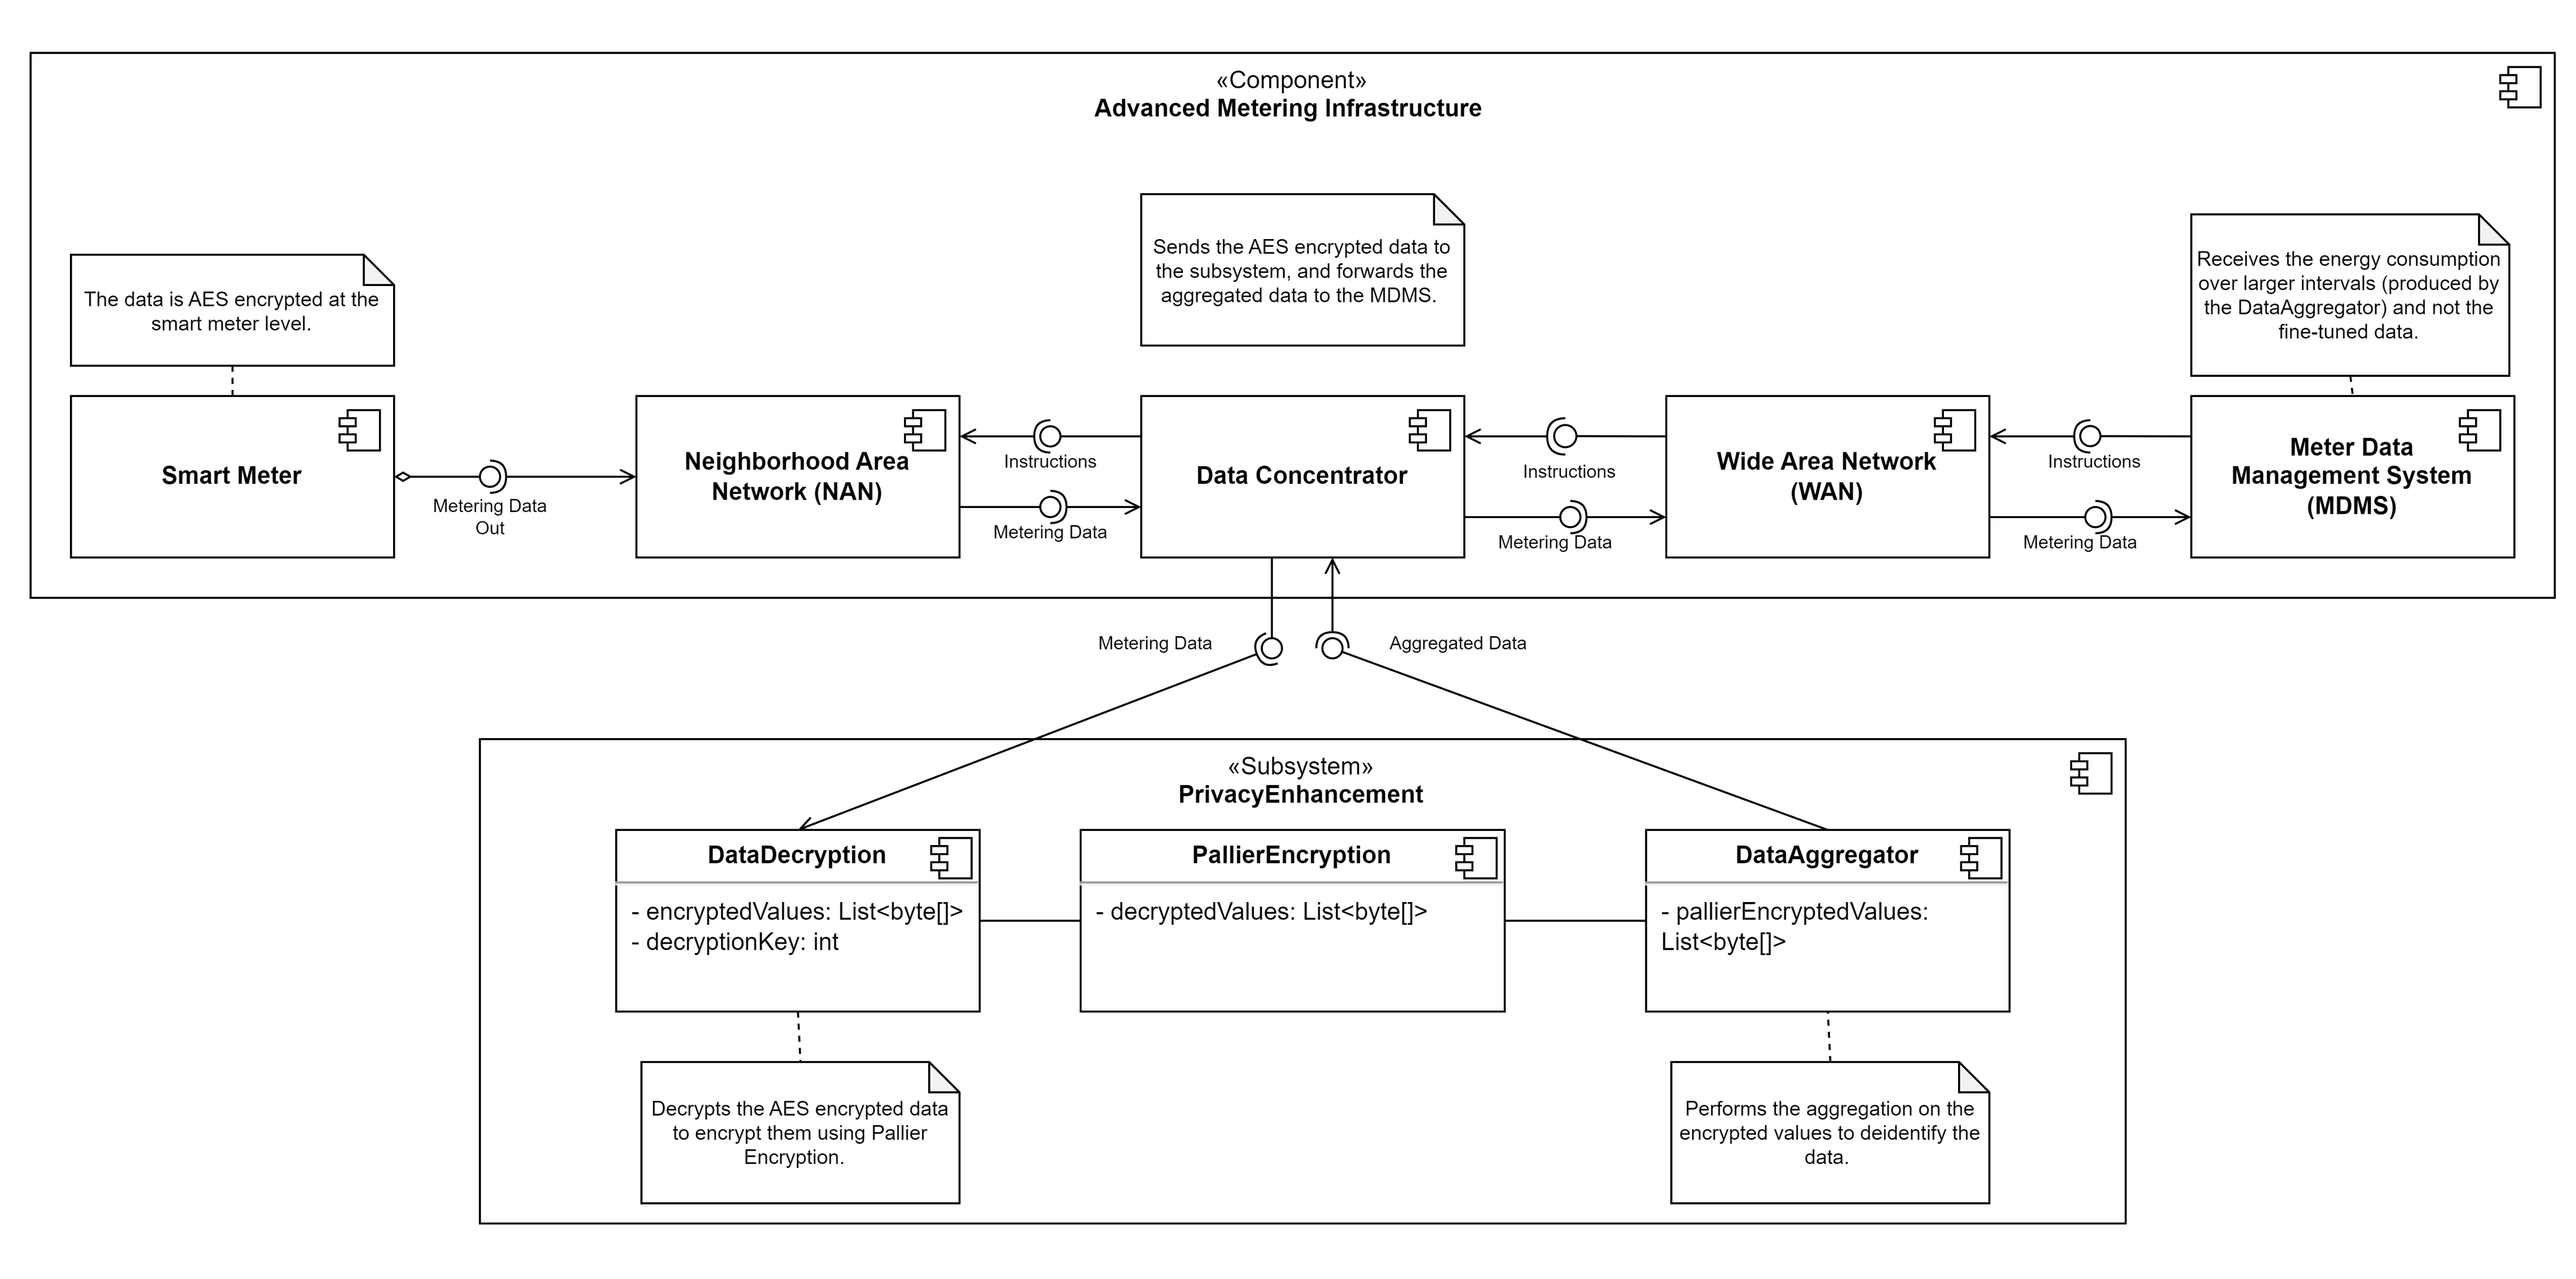
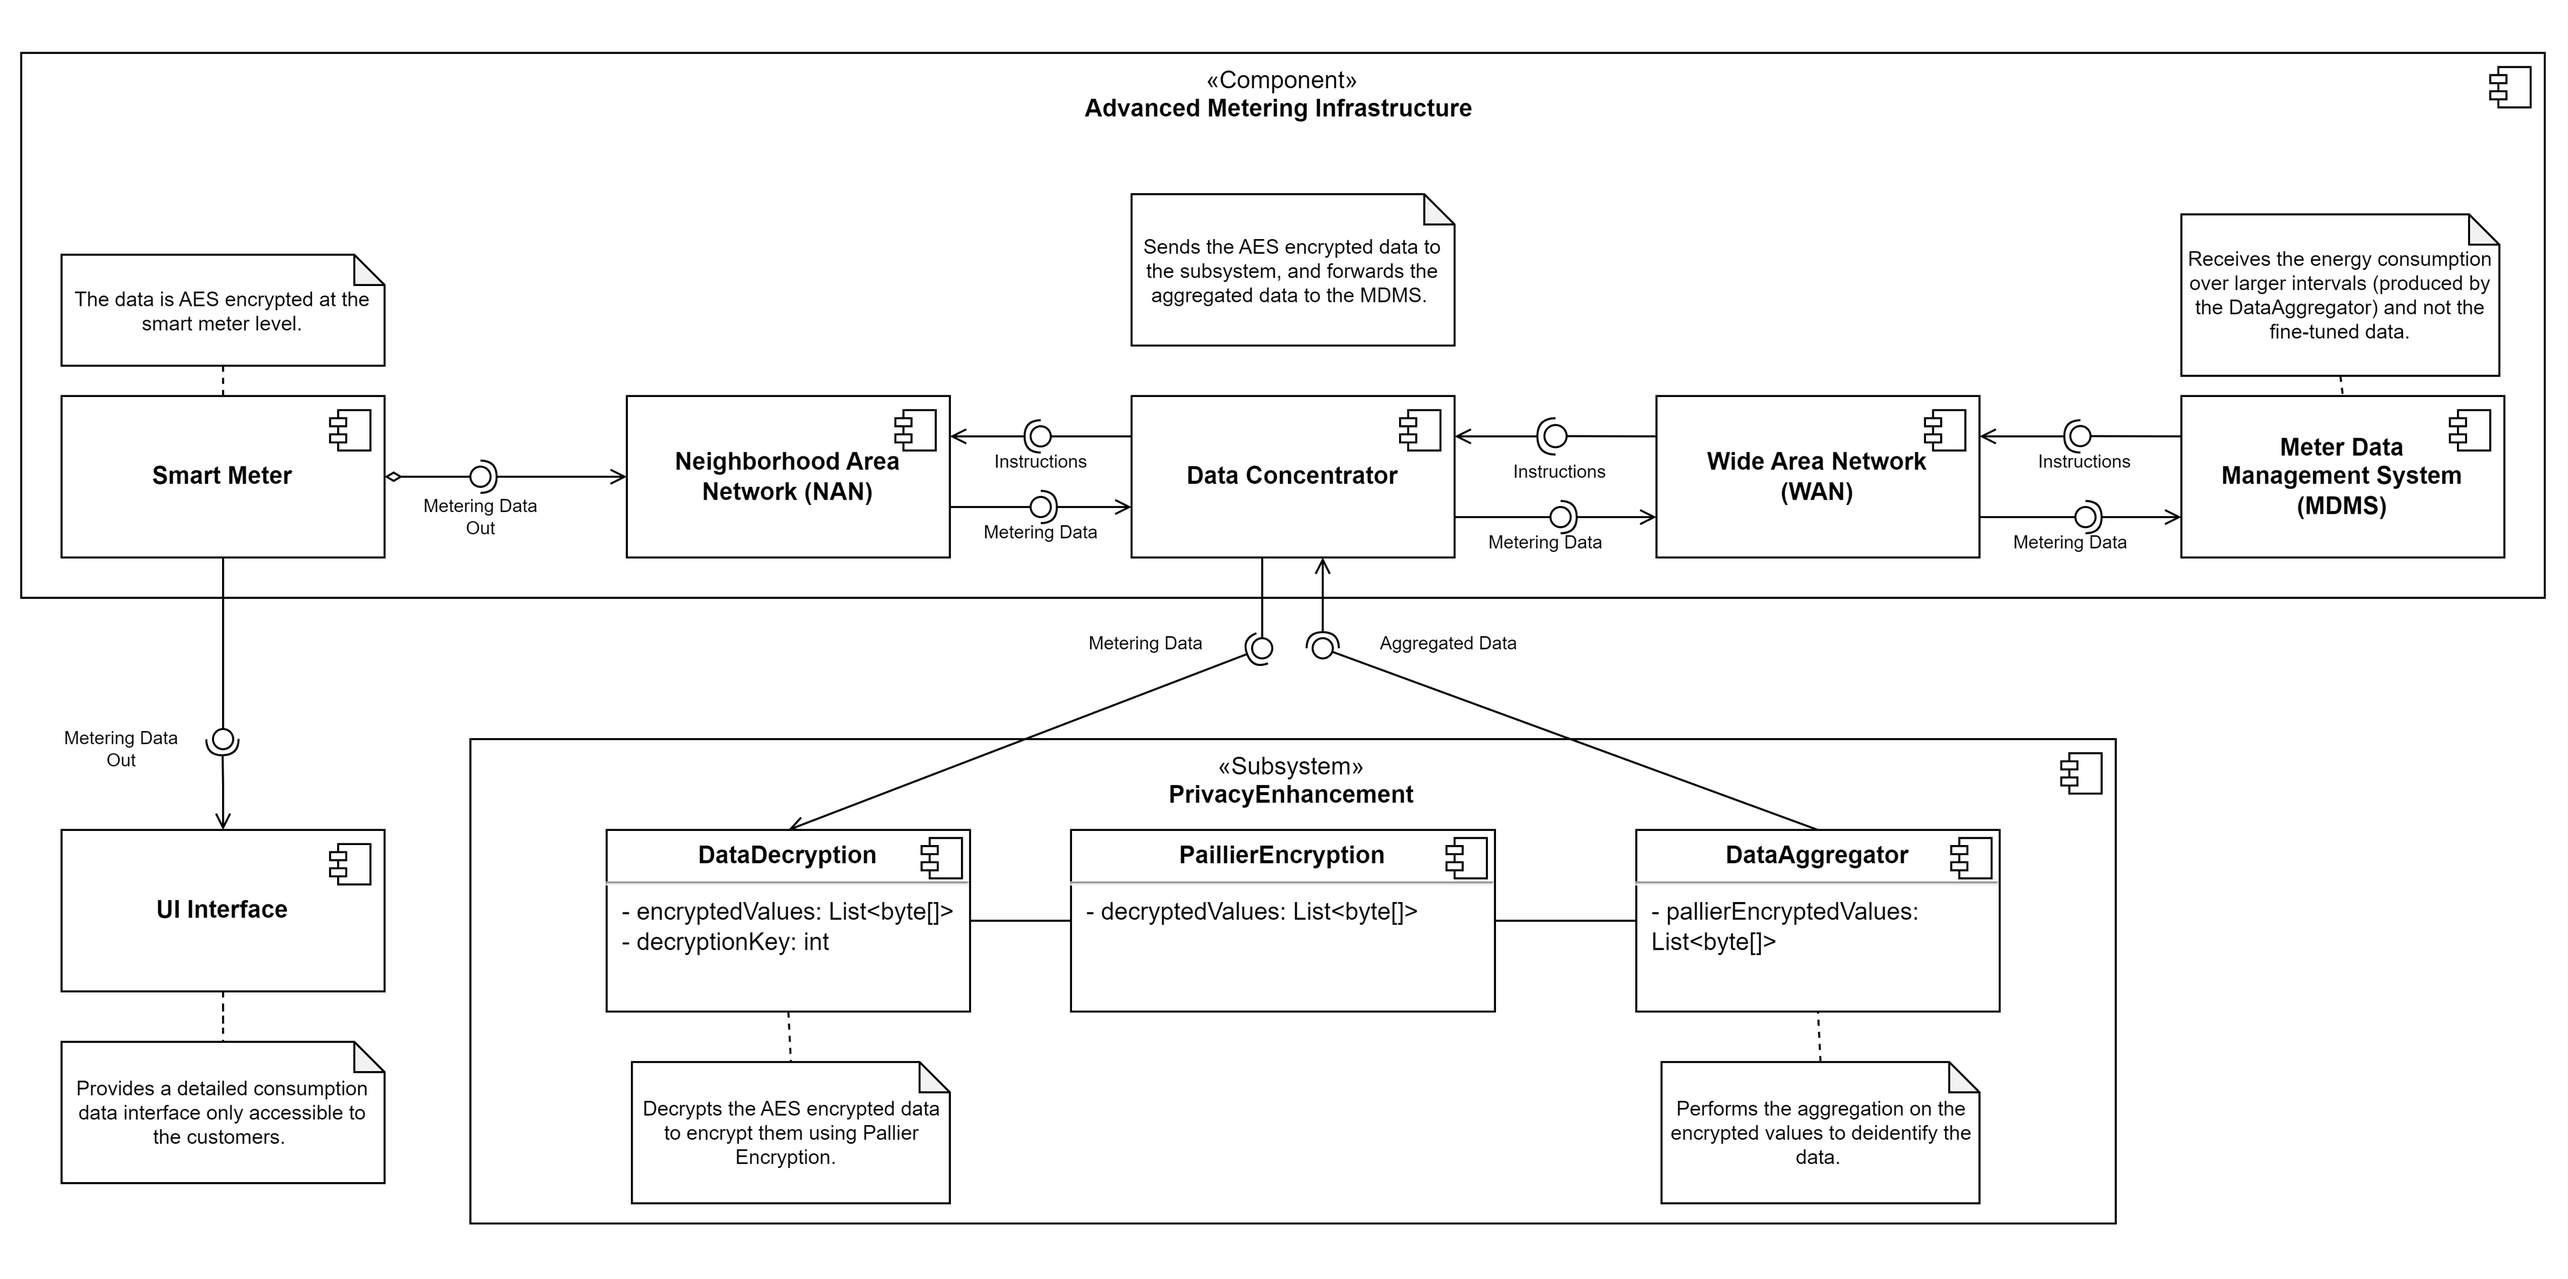
added UI component to diagram

diff --git a/m3/Architecture.md b/m3/Architecture.md
@@ -86,13 +86,12 @@ In smart meters like the the Revelo model described in section 3, data is secure
 
 To mitigate this risk and enhance user privacy, we propose an architecture that incorporates an additional layer of encryption using the Paillier cryptosystem. Our strategy involves decrypting the AES-encrypted data when it reaches the Data Concentrator and immediately re-encrypting it with Paillier encryption. This approach is designed to maintain the confidentiality of individual user data while still allowing the necessary aggregated computations for billing and monitoring.
 
-Paillier encryption is a type of public-key cryptography notable for its homomorphic property, which allows computations to be performed on encrypted data (ciphertexts) without decrypting it. Specifically, it’s additively homomorphic, meaning that arithmetic operations like addition performed on encrypted values will, when decrypted, yield the same result as if the operations had been performed on the original data. Its security relies on the difficulty of integer factorization, a foundation shared with RSA encryption. Despite its benefits for privacy protection, Paillier encryption is computationally more demanding. For this reason, we will be using TODO: **[talk about the optimized Paillier Encryption]**. 
+Paillier encryption is a type of public-key cryptography notable for its homomorphic property, which allows computations to be performed on encrypted data (ciphertexts) without decrypting it. Specifically, it’s additively homomorphic, meaning that arithmetic operations like addition performed on encrypted values will, when decrypted, yield the same result as if the operations had been performed on the original data. Its security relies on the difficulty of integer factorization, a foundation shared with RSA encryption. Despite its benefits for privacy protection, Paillier encryption is computationally more demanding. For this reason, we will be using ...
+TODO: **[talk about the optimized Paillier Encryption]**. 
 
-In your smart metering system, Paillier encryption enables the utility company to perform necessary operations on encrypted meter readings without compromising individual users' privacy. This means that detailed user data remains confidential throughout the process, while still allowing the utility to perform essential functions like billing and monitoring energy consumption trends.
+In our smart metering system, Paillier encryption enables the utility company to perform necessary operations on encrypted meter readings without compromising individual users' privacy. This means that detailed user data remains confidential throughout the process, while still allowing the utility to perform essential functions like billing and monitoring energy consumption trends.
 
 Furthermore, considering that smart meters send data incrementally, the decryption and re-encryption process at the Data Concentrator involve only small batches of data at a time. This limits the window of vulnerability where user data could be exposed in plaintext form. By minimizing the amount and duration of data in a decrypted state, we significantly reduce the potential impact of any single point of failure in the system's privacy architecture.
-
-TODO: Mofify diagram to include user interaction with the system
 
 <p align="center">
   <img src="component-diagram.png" width=1200px />
@@ -104,6 +103,7 @@ TODO: Mofify diagram to include user interaction with the system
 - **Data Aggregation:** The Data Concentrator aggregates the now Paillier-encrypted data over defined time intervals or by neighborhood, depending on the desired granularity. This aggregation process is designed to work directly on encrypted data, leveraging the homomorphic properties of Paillier encryption.
 - **Secure Transmission to MDMS:** The aggregated, Paillier-encrypted data is transmitted over the Wide Area Network (WAN) to the Meter Data Management System (MDMS). The WAN ensures the secure transmission of this encrypted data using advanced security protocols.
 - **Storage in MDMS:** The MDMS stores the aggregated, Paillier-encrypted data. It can perform certain computations on this data without the need for decryption, preserving the privacy of individual user data.
+- **Data Provision to User Interface Component:** The architecture includes a pathway for metering data to be sent from the Smart Meter to a User Interface (UI) component. This data provision is designed to enable customers to access their individual consumption data securely. It's important to note that our system facilitates the secure transfer of data to the UI component, but the development and implementation of the UI itself is not within the scope of our current project.
 
 
 ### 6.2 Selection of Homomorphic Encryption for Data Privacy and Analysis
